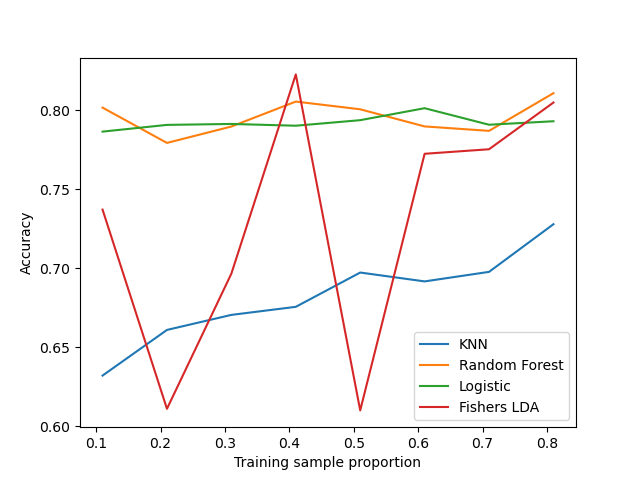
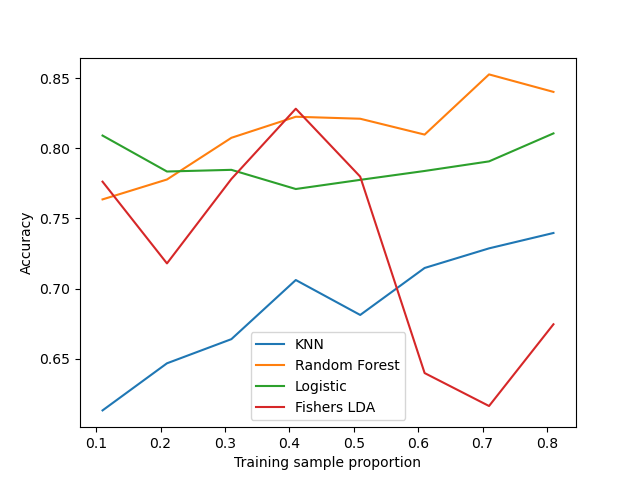
final graphs

diff --git a/main.py b/main.py
@@ -105,13 +105,13 @@ def main(ifname, knn=False, forest=False, logistic=False, fisher=False, model_co
     if model_comparison == True:
 
         #Assess Accuracy and Expected loss against sample
-        comp.metric_v_sample(x,y)
+        comp.metric_v_sample(x,y,k, n_est)
         
         # Plot confusion matrix for each model
         comp.plot_cm_comparison(forest_prediction, knn_prediction, fisher_prediction, logistic_prediction, Y_test)
 
         # K-Fold mean accuracy vs number of folds 
-        comp.accuracy_v_fold(alldata)
+        comp.accuracy_v_fold(alldata, k, n_est)
 
 if __name__ == "__main__":
     import sys

diff --git a/methods.py b/methods.py
@@ -174,8 +174,16 @@ def project_data(data, weights):
     return projected_data
 
 # Creating a classifier for Logistic Regression
-# This method uses stochastic gradient descent
 class LogisticRegression():
+    """This method uses stochastic gradient descent and sigmoid function
+    
+        -------
+        weighting(X)
+            Fits the weights on the training data pairs X, y
+
+        predict_prob(X)
+            Predicts probabilities for class membership 
+        """
     
     # Constructor used to initialize the objects in the class
     # Where itr = number of iterations for convergance

diff --git a/README.md b/README.md
@@ -80,3 +80,6 @@ Foundations of Machine Learning (INST0060) - Group Project
 [1] Ang Peng Seng (2018), Basic Classification methods for Titanic [python], URL: https://www.kaggle.com/angps95/basic-classification-methods-for-titanic 
 
 [2] Donges, N (2018), Predicting the Survival of Titanic Passengers [python], URL: https://towardsdatascience.com/predicting-the-survival-of-titanic-passengers-30870ccc7e8
+
+[3] Burhan Y. Kiyakoglu (2020), k-NN, Logistic Regression and k-Fold Cross Validation from Scratch [python], URL: https://www.kaggle.com/burhanykiyakoglu/k-nn-logistic-regression-k-fold-cv-from-scratch#-Logistic-Regression-from-Neural-Network-Perspective 
+
